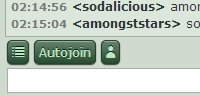
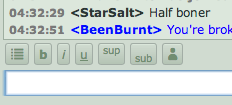
saving changes.

diff --git a/damn/index.html b/damn/index.html
@@ -45,15 +45,12 @@
                     </p>
                     <ul class="complete">
                     </ul>
-                    <!--
                     <article class="min">
                         <h3>Planned Features<span>features that may appear in future versions</span>
                         </h3>
-                        <ul class="content">
-                            <li><b>Noise notifications:</b> <i>make a sound when you get tabbed in a channel you're not viewing</i></li>
+                        <ul class="planned">
                         </ul>
                     </article>
-                    -->
                     <footer>
                         <p>
                             Some features are <b><em>experimental</em></b>,
@@ -66,9 +63,10 @@
                     <h3>Buttons</h3>
                     <article class="img">
                         <p class="t l">
+                            wsc features several buttons that provide different functions.
                             Above the input line of the client, there are a few
-                            buttons. The <em>multiline input</em> button, the
-                            <em>Autojoin</em> button, and the <em>emote picker</em>
+                            buttons. The <em>multiline input</em> button, a selection of
+                            <em>text formatting</em> buttons, and the <em>emote picker</em>
                             button.
                         </p>
                         <span class="img r">
@@ -76,14 +74,13 @@
                         </span>
                     </article>
                     <p>
-                        To join all of your autojoin channels at once, click
-                        the autojoin button. Clicking the emote picker button
-                        brings up a small popup listing the available emotes.
-                    </p><p>
                         Clicking the multiline button changes the text field to
                         a text area where you can enter multiple lines of text.
-                        Clicking the button again switches back to the normal
-                        text field.
+                    </p><p>
+                        The text formatting buttons automatically apply HTML tags to any
+                        text that you may have selected in the input field. The emote
+                        picker button brings up a view that allows you to browse and
+                        select emoticons loaded from the emote cloud.
                     </p>
                     <article class="img">
                         <span class="img l">
@@ -91,9 +88,9 @@
                         </span>
                         <p class="t r">
                             In the top right hand corner of the screen, there
-                            are three buttons. The <em>left</em> and
-                            <em>right arrow</em> buttons, and the <em>cog</em>
-                            button.
+                            are five buttons. The <em>autojoin</em> button, the <em>mute</em>
+                            button, the <em>left</em> and <em>right arrow</em> buttons,
+                            and the <em>cog</em> button.
                         </p>
                     </article>
                     <p>

diff --git a/css/main.css b/css/main.css
@@ -292,17 +292,18 @@ article.min h3 {
 }
 
 article.min h3 span {
-    -webkit-transition: color, .5s;
-    transition: color, .5s;
+    -webkit-transition: opacity, .5s;
+    transition: opacity, .5s;
     display: inline;
     margin-left: 10px;
     font-family: Georgia;
     font-style: italic;
     font-size: 12px;
-    color: #C3CED8;
+    color: #86929B;
+    opacity: 0;
 }
 
-article.min .content {
+article.min .planned {
     opacity: 0;
 }
 
@@ -319,12 +320,12 @@ article.min:hover h3 {
 }
 
 article.min:hover h3 span {
-    -webkit-transition: color, 1s;
-    transition: color, 1s;
-    color: #86929B;
+    -webkit-transition: opacity, 1s;
+    transition: opacity, 1s;
+    opacity: 1;
 }
 
-article.min:hover .content {
+article.min:hover .planned {
     -webkit-transition: opacity, 1s;
     transition: opacity, 1s;
     opacity: 1;

diff --git a/js/wscdindex.js b/js/wscdindex.js
@@ -19,6 +19,16 @@
                 link+= entry.name + '</a>' + ( entry.experimental ? '</em>' : '' ) + ':</b>';
                 clist.append('<li>' + link + ' <i>' + entry.description + '<i></li>');
             }
+            
+            var link = '';
+            var clist = $('ul.planned');
+            
+            for( var index in data.planned ) {
+                entry = data.complete[index];
+                link = '<b>' + ( entry.experimental ? '<em>' : '' );
+                link+= entry.name + ( entry.experimental ? '</em>' : '' ) + ':</b>';
+                clist.append('<li>' + link + ' <i>' + entry.description + '<i></li>');
+            }
         }
     });
 
